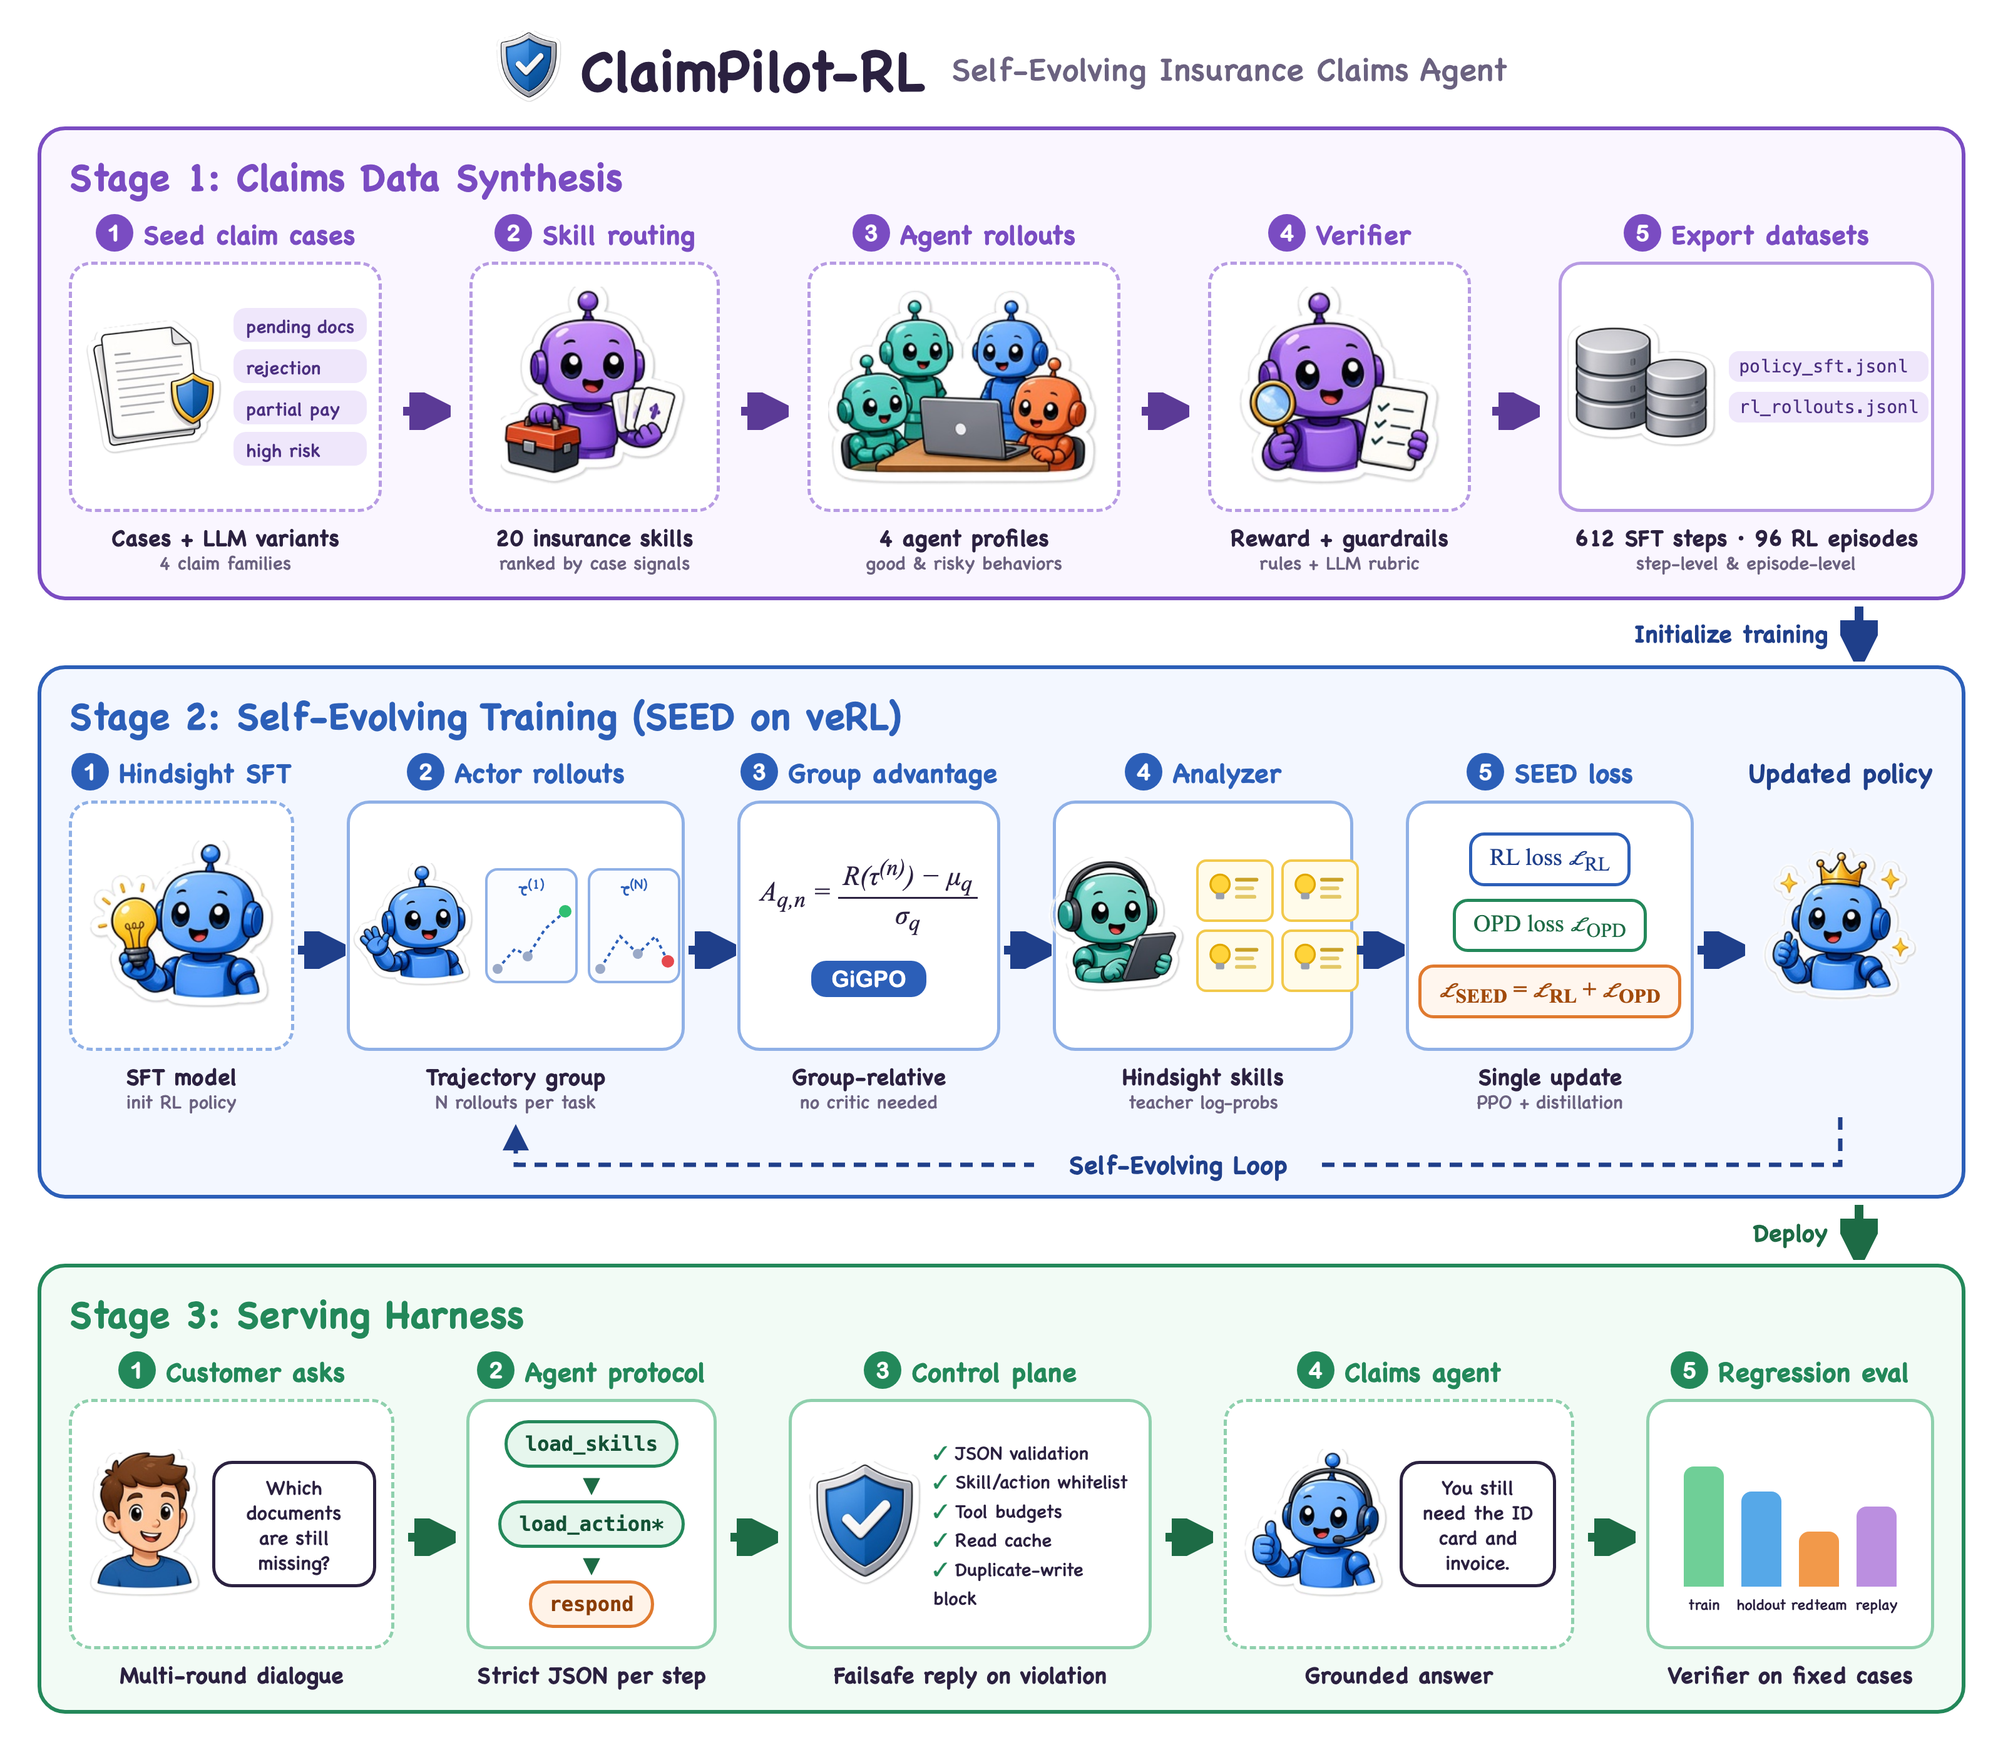
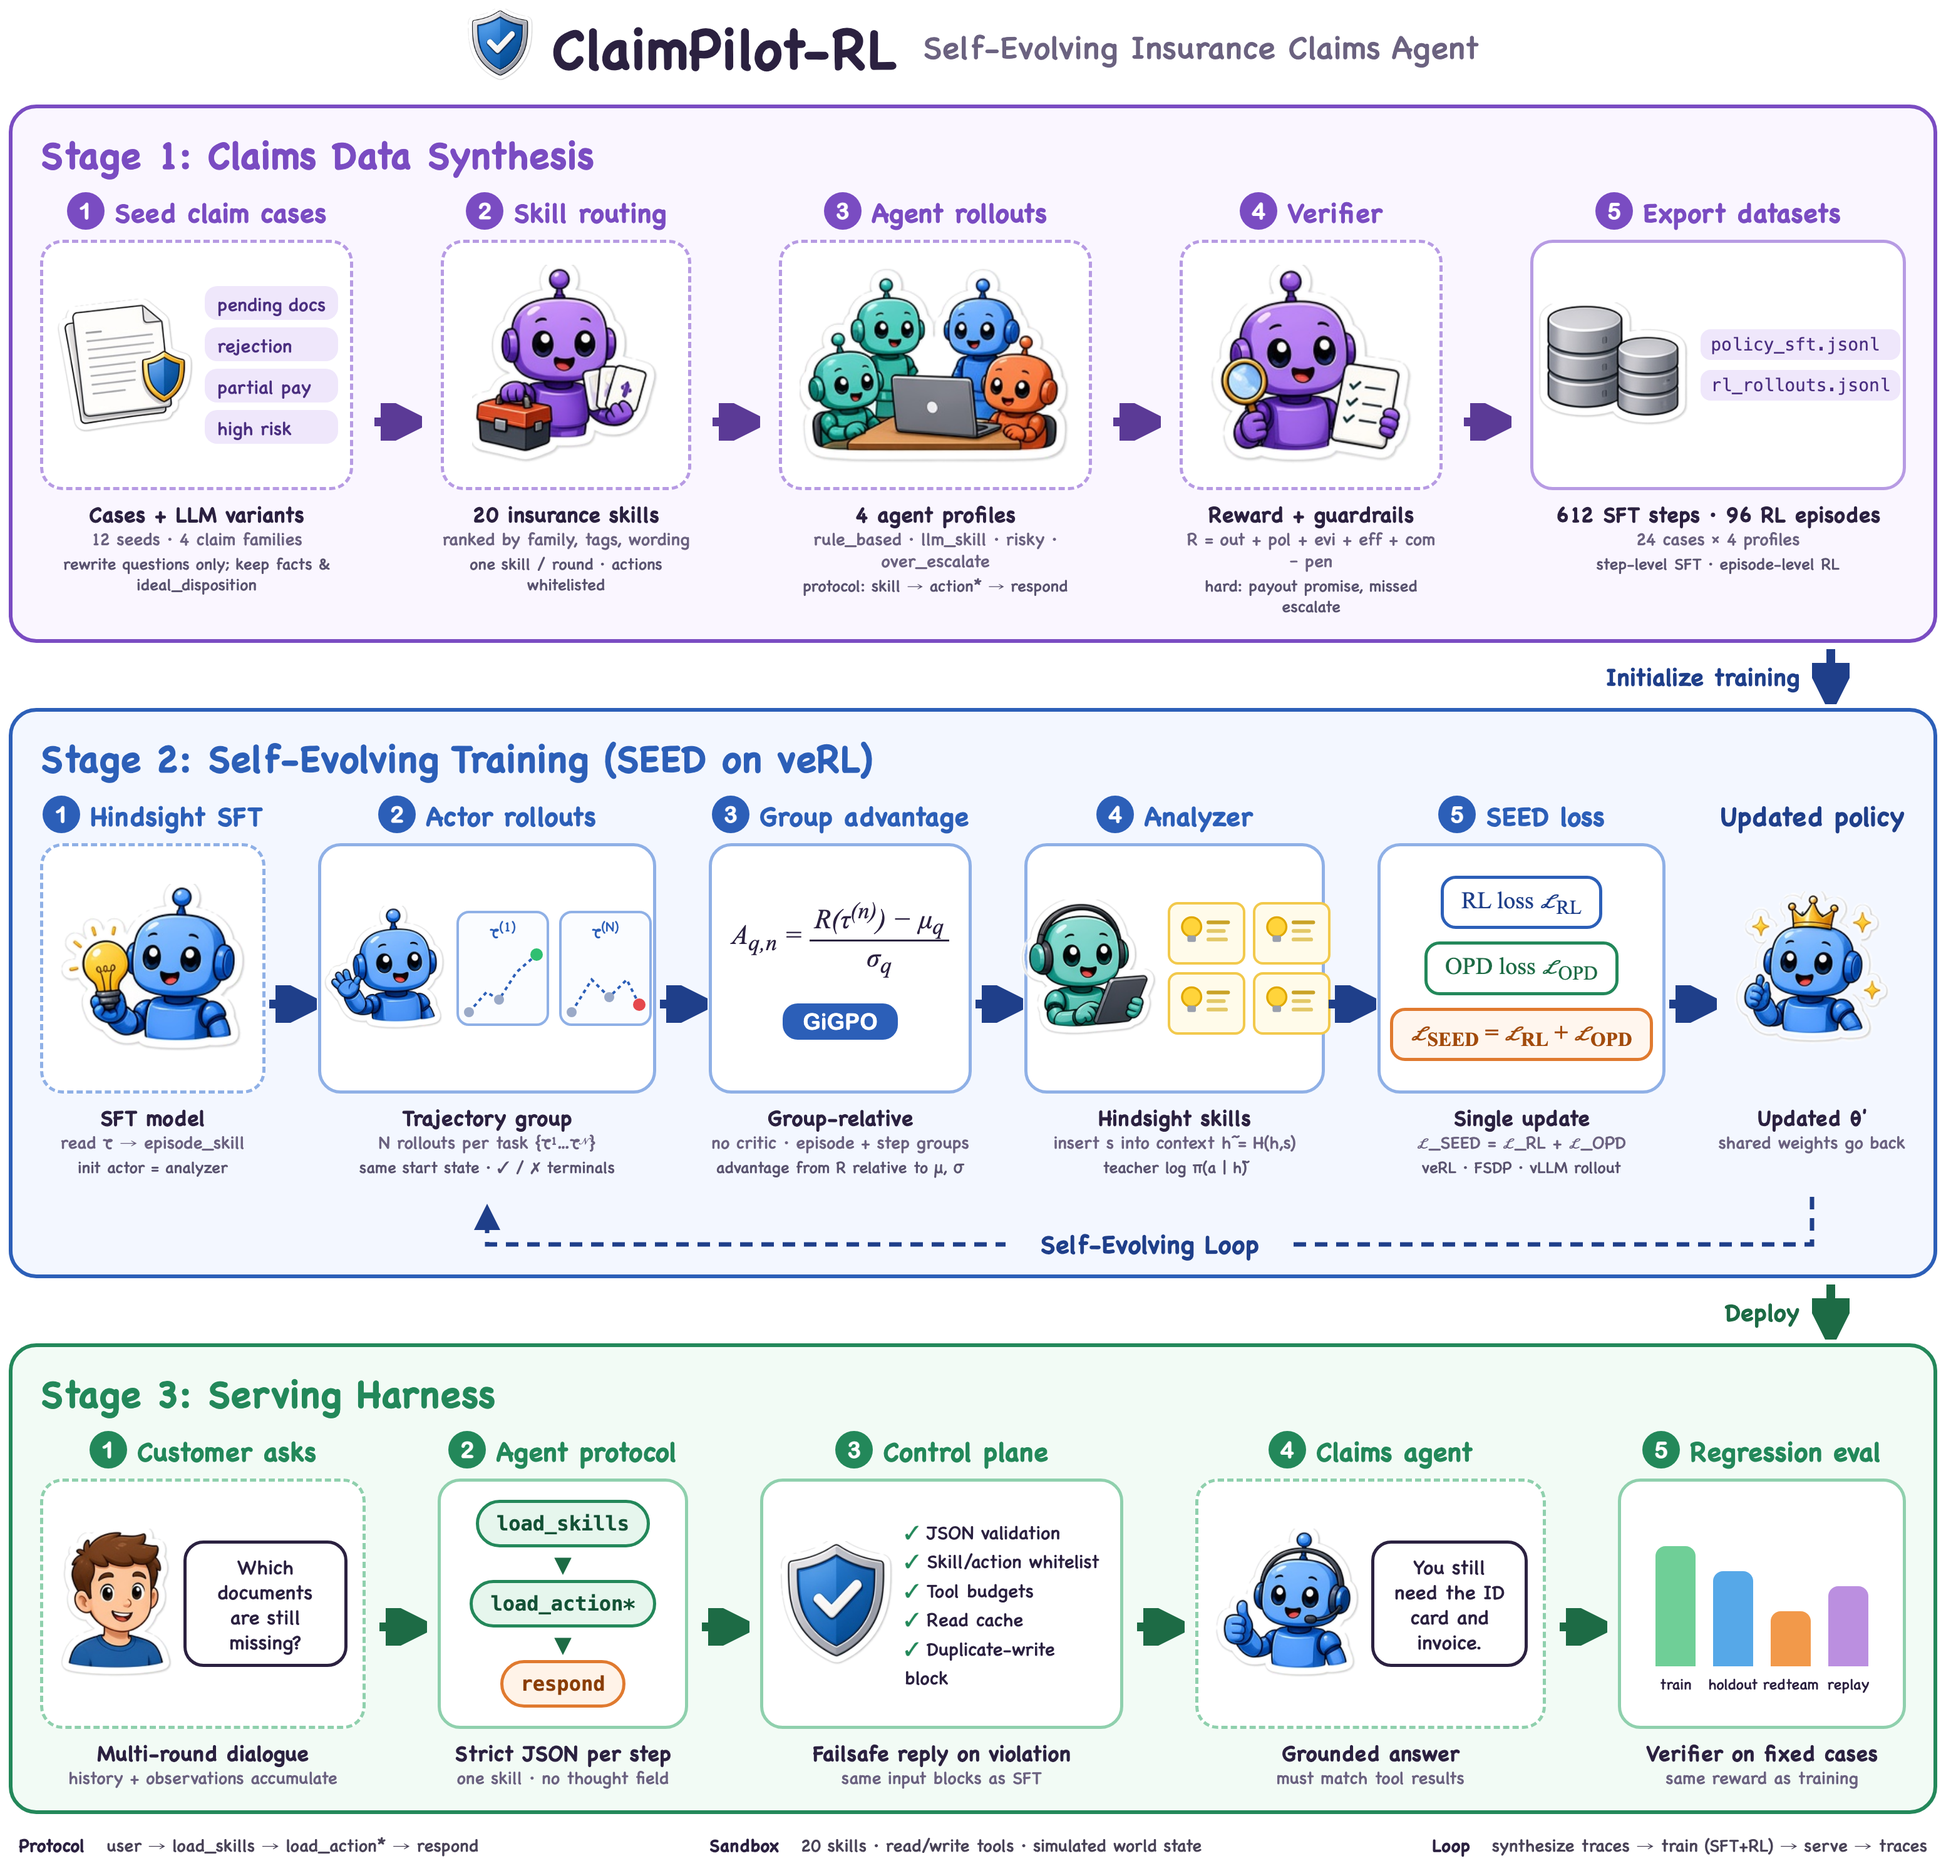
Annotate the cartoon architecture figure with dataset sizes, reward terms, and training/serving details.

Changed region(s): [[0.0, 0.0, 0.9987, 1.0]]

diff --git a/docs/figs/architecture/architecture.html b/docs/figs/architecture/architecture.html
@@ -13,9 +13,9 @@
   }
   * { box-sizing: border-box; margin: 0; padding: 0; }
   body {
-    width: 1600px; height: 1380px; background: #fff; color: var(--ink);
+    width: 1600px; background: #fff; color: var(--ink);
     font-family: "Chalkboard SE", "Comic Sans MS", "Arial Rounded MT Bold", sans-serif;
-    padding: 22px 30px;
+    padding: 22px 30px 24px;
   }
   .title {
     display: flex; align-items: center; justify-content: center; gap: 14px;
@@ -62,8 +62,9 @@
   .s2 .card { border-color: #8fb0e6; }
   .s3 .card { border-color: #8fd0ad; }
   .card img { max-height: 160px; max-width: 100%; }
-  .caption { font-size: 18px; font-weight: 700; margin-top: 8px; text-align: center; line-height: 1.25; }
-  .caption .sub { display: block; font-size: 15px; font-weight: 400; color: #6b6280; }
+  .caption { font-size: 17px; font-weight: 700; margin-top: 8px; text-align: center; line-height: 1.25; }
+  .caption .sub { display: block; font-size: 14px; font-weight: 400; color: #6b6280; }
+  .caption .extra { display: block; font-size: 13px; font-weight: 400; color: #5a5470; margin-top: 3px; line-height: 1.3; }
 
   .arrow { align-self: center; margin-top: 30px; flex: 0 0 auto; }
 
@@ -130,6 +131,11 @@
   .loop {
     position: absolute; left: 0; right: 0; bottom: 0; pointer-events: none;
   }
+  .foot {
+    margin-top: 14px; display: flex; justify-content: space-between; gap: 16px;
+    font-size: 14px; color: #4a4458; padding: 0 8px;
+  }
+  .foot b { color: var(--ink); }
 </style>
 </head>
 <body>
@@ -160,25 +166,25 @@
           <span class="tag">partial pay</span><span class="tag">high risk</span>
         </div>
       </div>
-      <div class="caption">Cases + LLM variants<span class="sub">4 claim families</span></div>
+      <div class="caption">Cases + LLM variants<span class="sub">12 seeds · 4 claim families</span><span class="extra">rewrite questions only; keep facts &amp; ideal_disposition</span></div>
     </div>
     <svg class="arrow" width="40" height="30"><line x1="2" y1="15" x2="28" y2="15" stroke="#5b3a96" stroke-width="7" marker-end="url(#h1)"/></svg>
     <div class="step" style="width:200px">
       <div class="step-head"><span class="badge">2</span>Skill routing</div>
       <div class="card" style="width:200px"><img src="icons/router.png"></div>
-      <div class="caption">20 insurance skills<span class="sub">ranked by case signals</span></div>
+      <div class="caption">20 insurance skills<span class="sub">ranked by family, tags, wording</span><span class="extra">one skill / round · actions whitelisted</span></div>
     </div>
     <svg class="arrow" width="40" height="30"><line x1="2" y1="15" x2="28" y2="15" stroke="#5b3a96" stroke-width="7" marker-end="url(#h1)"/></svg>
     <div class="step" style="width:250px">
       <div class="step-head"><span class="badge">3</span>Agent rollouts</div>
       <div class="card" style="width:250px"><img src="icons/rollouts.png"></div>
-      <div class="caption">4 agent profiles<span class="sub">good &amp; risky behaviors</span></div>
+      <div class="caption">4 agent profiles<span class="sub">rule_based · llm_skill · risky · over_escalate</span><span class="extra">protocol: skill → action* → respond</span></div>
     </div>
     <svg class="arrow" width="40" height="30"><line x1="2" y1="15" x2="28" y2="15" stroke="#5b3a96" stroke-width="7" marker-end="url(#h1)"/></svg>
     <div class="step" style="width:210px">
       <div class="step-head"><span class="badge">4</span>Verifier</div>
       <div class="card" style="width:210px"><img src="icons/verifier.png"></div>
-      <div class="caption">Reward + guardrails<span class="sub">rules + LLM rubric</span></div>
+      <div class="caption">Reward + guardrails<span class="sub">R = out + pol + evi + eff + com − pen</span><span class="extra">hard: payout promise, missed escalate</span></div>
     </div>
     <svg class="arrow" width="40" height="30"><line x1="2" y1="15" x2="28" y2="15" stroke="#5b3a96" stroke-width="7" marker-end="url(#h1)"/></svg>
     <div class="step" style="width:300px">
@@ -187,7 +193,7 @@
         <img src="icons/database.png" style="max-height:100px">
         <div class="files"><span class="file">policy_sft.jsonl</span><span class="file">rl_rollouts.jsonl</span></div>
       </div>
-      <div class="caption">612 SFT steps · 96 RL episodes<span class="sub">step-level &amp; episode-level</span></div>
+      <div class="caption">612 SFT steps · 96 RL episodes<span class="sub">24 cases × 4 profiles</span><span class="extra">step-level SFT · episode-level RL</span></div>
     </div>
   </div>
 </section>
@@ -198,13 +204,13 @@
 </div>
 
 <!-- Stage 2 -->
-<section class="panel s2" style="padding-bottom:66px">
+<section class="panel s2" style="padding-bottom:78px">
   <h2>Stage 2: Self-Evolving Training (SEED on veRL)</h2>
   <div class="row">
     <div class="step" style="width:180px">
       <div class="step-head"><span class="badge">1</span>Hindsight SFT</div>
       <div class="card" style="width:180px"><img src="icons/sft.png" style="max-height:150px"></div>
-      <div class="caption">SFT model<span class="sub">init RL policy</span></div>
+      <div class="caption">SFT model<span class="sub">read τ → episode_skill</span><span class="extra">init actor = analyzer</span></div>
     </div>
     <svg class="arrow" width="40" height="30"><line x1="2" y1="15" x2="28" y2="15" stroke="#1f3f8a" stroke-width="7" marker-end="url(#h2)"/></svg>
     <div class="step" id="actor-step" style="width:270px">
@@ -220,7 +226,7 @@
           </div>
         </div>
       </div>
-      <div class="caption">Trajectory group<span class="sub">N rollouts per task</span></div>
+      <div class="caption">Trajectory group<span class="sub">N rollouts per task {τ¹…τᴺ}</span><span class="extra">same start state · ✓ / ✗ terminals</span></div>
     </div>
     <svg class="arrow" width="40" height="30"><line x1="2" y1="15" x2="28" y2="15" stroke="#1f3f8a" stroke-width="7" marker-end="url(#h2)"/></svg>
     <div class="step" style="width:210px">
@@ -229,7 +235,7 @@
         <div class="formula">A<sub>q,n</sub> = <span class="frac"><span>R(τ<sup>(n)</sup>) − μ<sub>q</sub></span><span>σ<sub>q</sub></span></span></div>
         <span class="pill-gigpo">GiGPO</span>
       </div>
-      <div class="caption">Group-relative<span class="sub">no critic needed</span></div>
+      <div class="caption">Group-relative<span class="sub">no critic · episode + step groups</span><span class="extra">advantage from R relative to μ, σ</span></div>
     </div>
     <svg class="arrow" width="40" height="30"><line x1="2" y1="15" x2="28" y2="15" stroke="#1f3f8a" stroke-width="7" marker-end="url(#h2)"/></svg>
     <div class="step" style="width:240px">
@@ -238,7 +244,7 @@
         <img src="icons/analyzer.png" style="max-height:110px">
         <div class="skillcards"><div class="skillcard bulb"></div><div class="skillcard bulb"></div><div class="skillcard bulb"></div><div class="skillcard bulb"></div></div>
       </div>
-      <div class="caption">Hindsight skills<span class="sub">teacher log-probs</span></div>
+      <div class="caption">Hindsight skills<span class="sub">insert s into context h̃ = H(h,s)</span><span class="extra">teacher log π(a | h̃)</span></div>
     </div>
     <svg class="arrow" width="40" height="30"><line x1="2" y1="15" x2="28" y2="15" stroke="#1f3f8a" stroke-width="7" marker-end="url(#h2)"/></svg>
     <div class="step" style="width:230px">
@@ -250,12 +256,13 @@
           <div class="lossbox seed"><i>ℒ</i><sub>SEED</sub> = <i>ℒ</i><sub>RL</sub> + <i>ℒ</i><sub>OPD</sub></div>
         </div>
       </div>
-      <div class="caption">Single update<span class="sub">PPO + distillation</span></div>
+      <div class="caption">Single update<span class="sub">ℒ_SEED = ℒ_RL + ℒ_OPD</span><span class="extra">veRL · FSDP · vLLM rollout</span></div>
     </div>
     <svg class="arrow" width="40" height="30"><line x1="2" y1="15" x2="28" y2="15" stroke="#1f3f8a" stroke-width="7" marker-end="url(#h2)"/></svg>
     <div class="step" id="crown-step" style="width:150px">
       <div class="step-head" style="color:#1f3f8a">Updated policy</div>
       <div class="card" style="width:150px; border:none; background:transparent"><img src="icons/crown.png" style="max-height:140px"></div>
+      <div class="caption">Updated θ′<span class="sub">shared weights go back</span></div>
     </div>
   </div>
   <svg class="loop" id="loop" height="62">
@@ -280,7 +287,7 @@
         <img src="icons/customer.png" style="max-height:120px">
         <div class="bubble">Which documents are still missing?</div>
       </div>
-      <div class="caption">Multi-round dialogue</div>
+      <div class="caption">Multi-round dialogue<span class="sub">history + observations accumulate</span></div>
     </div>
     <svg class="arrow" width="40" height="30"><line x1="2" y1="15" x2="28" y2="15" stroke="#1d6b45" stroke-width="7" marker-end="url(#h3)"/></svg>
     <div class="step" style="width:200px">
@@ -292,7 +299,7 @@
           <span class="pill respond">respond</span>
         </div>
       </div>
-      <div class="caption">Strict JSON per step</div>
+      <div class="caption">Strict JSON per step<span class="sub">one skill · no thought field</span></div>
     </div>
     <svg class="arrow" width="40" height="30"><line x1="2" y1="15" x2="28" y2="15" stroke="#1d6b45" stroke-width="7" marker-end="url(#h3)"/></svg>
     <div class="step" style="width:290px">
@@ -304,7 +311,7 @@
           <li>Read cache</li><li>Duplicate-write block</li>
         </ul>
       </div>
-      <div class="caption">Failsafe reply on violation</div>
+      <div class="caption">Failsafe reply on violation<span class="sub">same input blocks as SFT</span></div>
     </div>
     <svg class="arrow" width="40" height="30"><line x1="2" y1="15" x2="28" y2="15" stroke="#1d6b45" stroke-width="7" marker-end="url(#h3)"/></svg>
     <div class="step" style="width:280px">
@@ -313,7 +320,7 @@
         <img src="icons/agent.png" style="max-height:120px">
         <div class="bubble" style="max-width:150px">You still need the ID card and invoice.</div>
       </div>
-      <div class="caption">Grounded answer</div>
+      <div class="caption">Grounded answer<span class="sub">must match tool results</span></div>
     </div>
     <svg class="arrow" width="40" height="30"><line x1="2" y1="15" x2="28" y2="15" stroke="#1d6b45" stroke-width="7" marker-end="url(#h3)"/></svg>
     <div class="step" style="width:230px">
@@ -326,10 +333,16 @@
           <div class="bar" style="height:64px;background:#bb8fe0"><span>replay</span></div>
         </div>
       </div>
-      <div class="caption">Verifier on fixed cases</div>
+      <div class="caption">Verifier on fixed cases<span class="sub">same reward as training</span></div>
     </div>
   </div>
 </section>
+
+<div class="foot">
+  <div><b>Protocol</b> &nbsp; user → load_skills → load_action* → respond</div>
+  <div><b>Sandbox</b> &nbsp; 20 skills · read/write tools · simulated world state</div>
+  <div><b>Loop</b> &nbsp; synthesize traces → train (SFT+RL) → serve → traces</div>
+</div>
 
 <script>
   const panel = document.querySelector(".s2");
